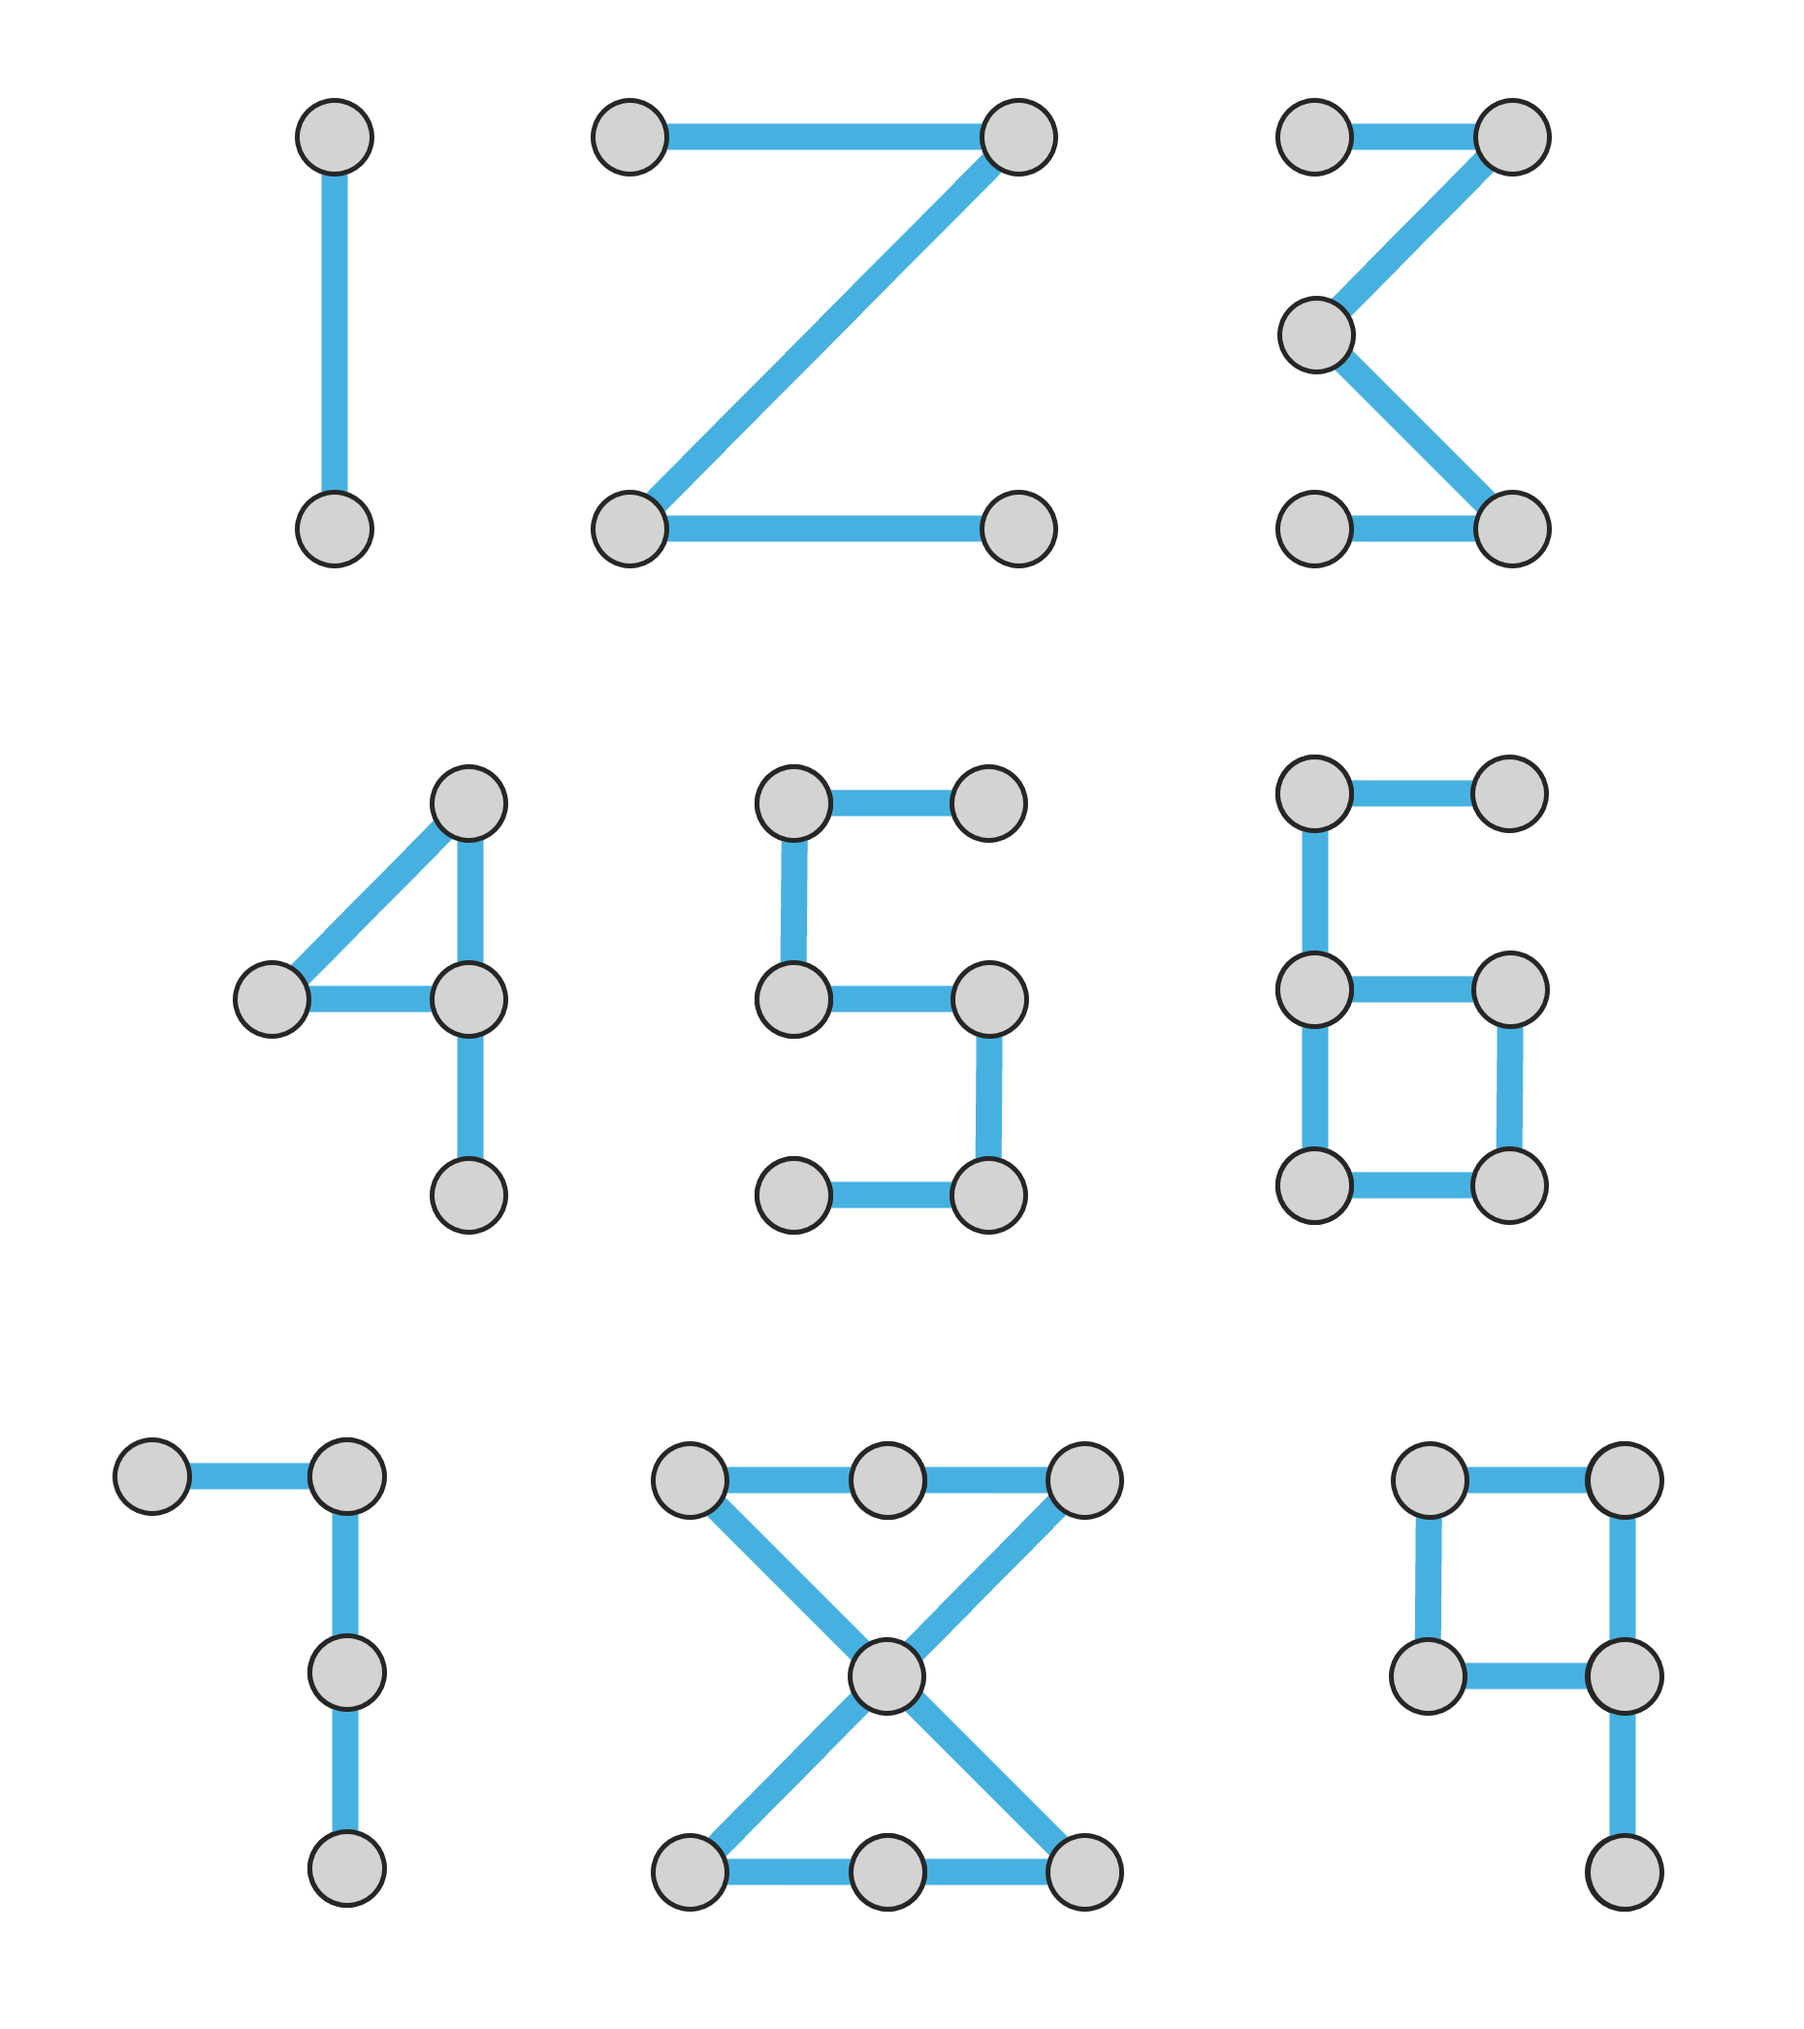
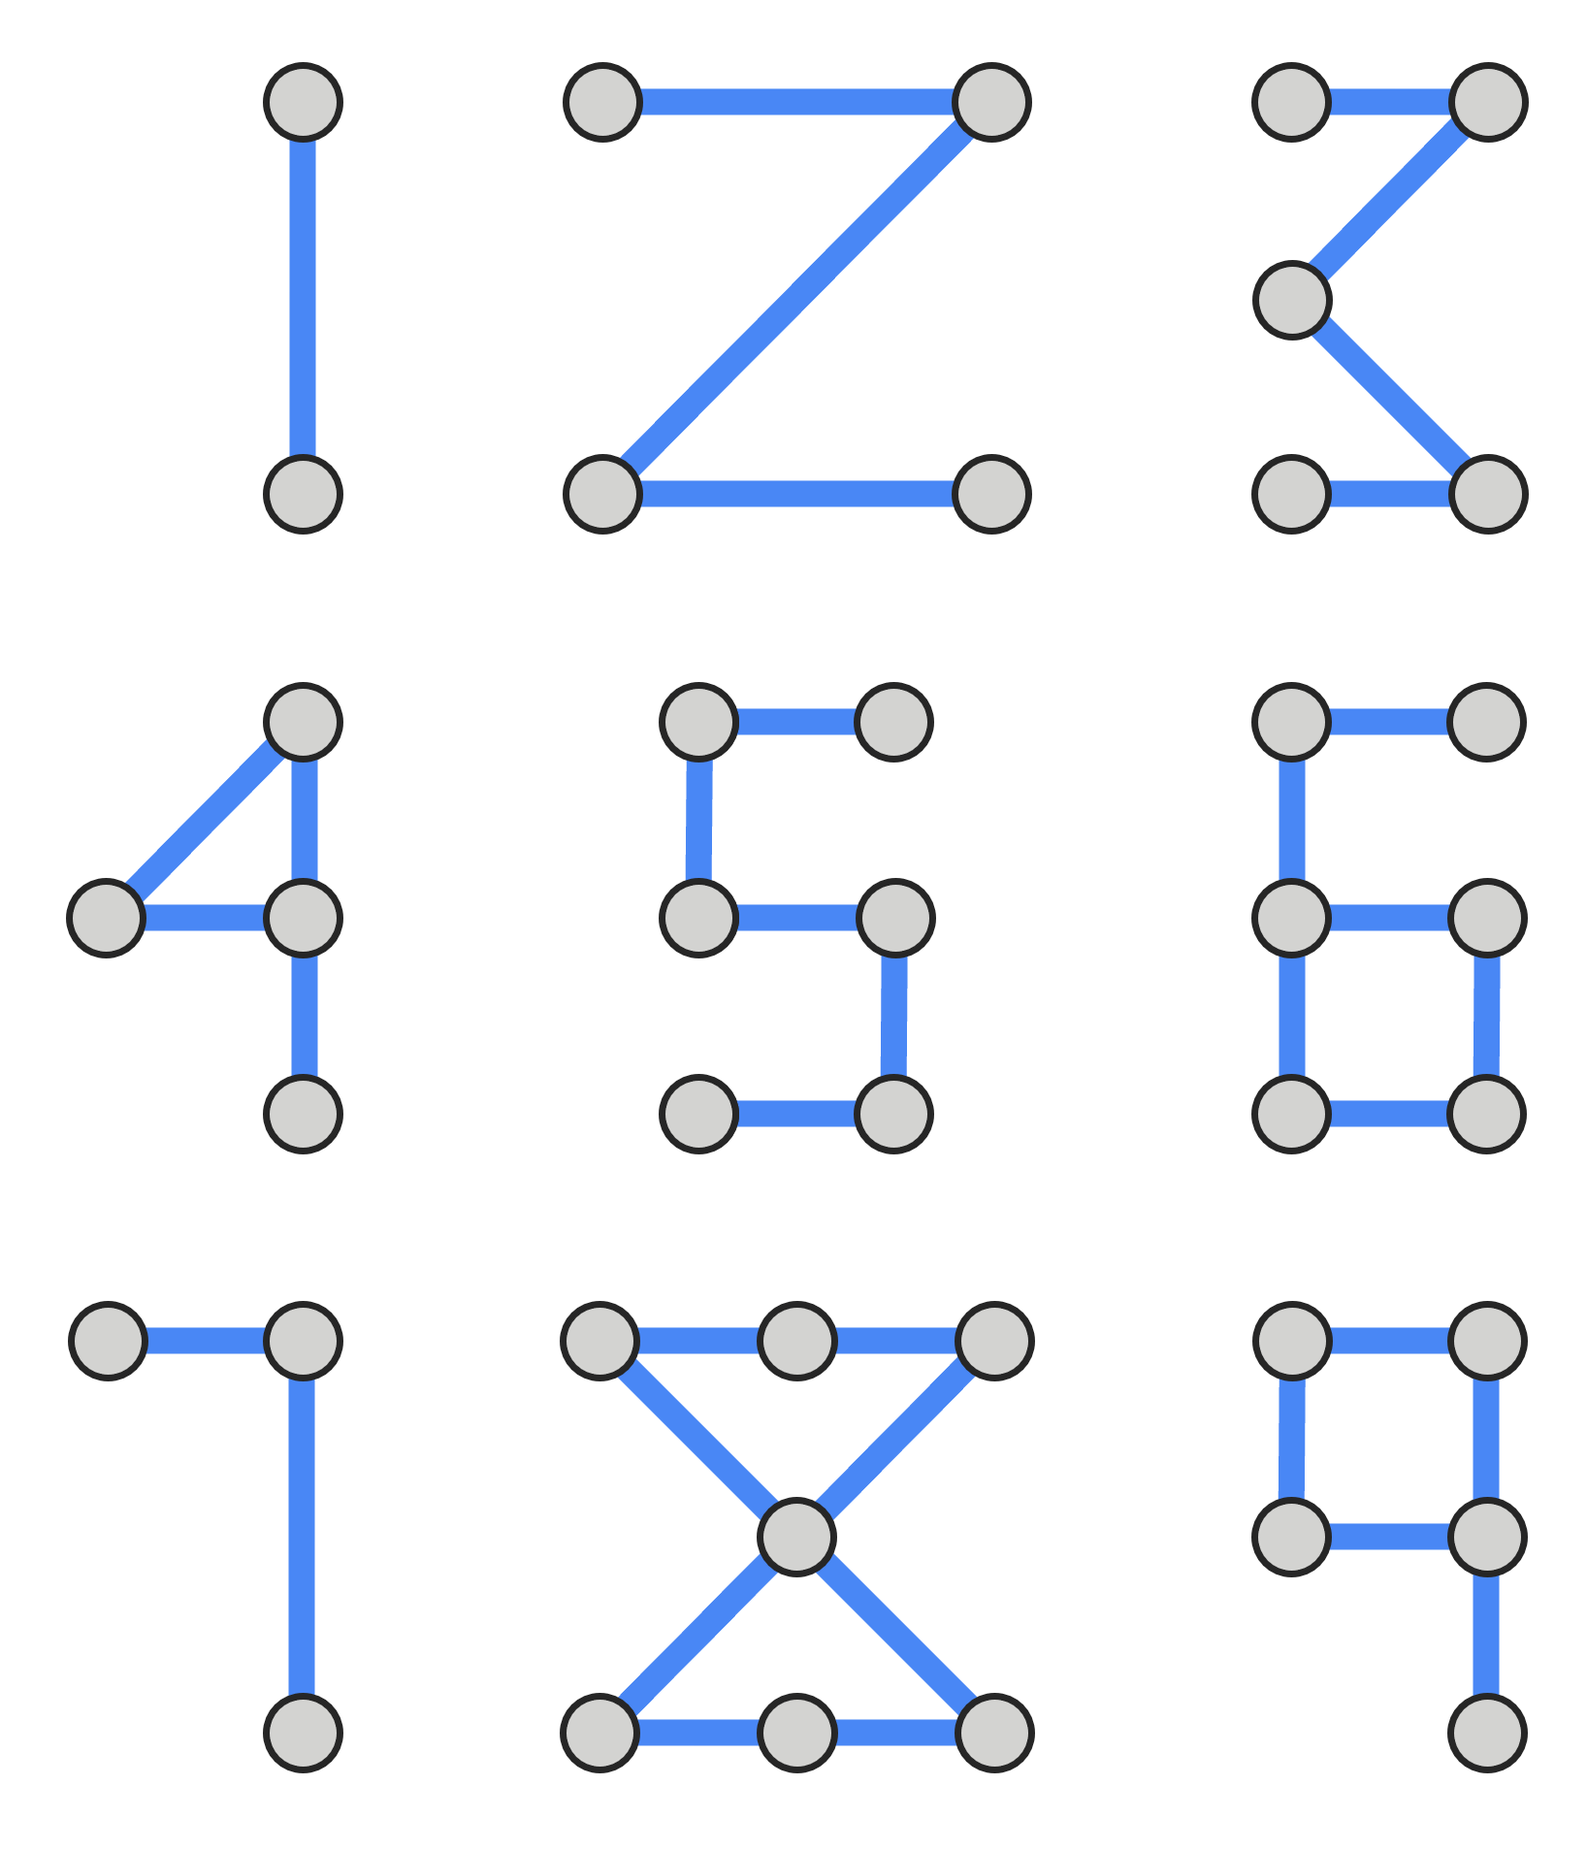
dev 2 mode for videos

diff --git a/index.html b/index.html
@@ -905,39 +905,42 @@
         .dev2-preview-row {
             display: none;
             align-items: flex-end;
+            gap: clamp(8px, 2cqw, 16px);
             width: 100%;
-            height: 80cqw;
-            margin-bottom: clamp(6px, 2cqw, 12px);
+            margin-bottom: clamp(12px, 3cqw, 20px);
             flex-shrink: 0;
         }
         body.dev2 .dev2-preview-row { display: flex; }
 
-        /* 9:16 phone frame — left-aligned to the board */
-        .dev2-phone-frame {
-            /* height = 80cqw, width = height × (9/16) */
-            width: calc(80cqw * 9 / 16);
-            height: 80cqw;
-            border: 2px solid #444;
-            border-radius: clamp(10px, 2.5cqw, 20px);
-            flex-shrink: 0;
-            background: transparent;
-        }
-
-        /* Number guide image — right-aligned to the board */
+        /* Number guide — left side, auto-width, same height as the square */
         .dev2-guide-wrap {
-            flex: 1;
             display: flex;
-            justify-content: flex-end;
+            flex-direction: column;
             align-items: center;
-            overflow: hidden;
-            padding-left: clamp(6px, 1.5cqw, 12px);
+            flex-shrink: 0;
+            gap: clamp(4px, 1cqw, 8px);
+        }
+        .dev2-guide-label {
+            font-family: 'Rajdhani', sans-serif; font-weight: 700;
+            font-size: clamp(10px, 2.5cqw, 13px);
+            letter-spacing: 0.15em; text-transform: uppercase;
+            color: #555; line-height: 1;
         }
         .dev2-guide-img {
-            height: 80cqw;
+            height: 50cqw;
             width: auto;
-            max-width: 100%;
-            object-fit: contain;
             display: block;
+        }
+
+        /* Square box — right side, half the board width */
+        .dev2-phone-frame {
+            width: 50cqw;
+            height: 50cqw;
+            flex-shrink: 0;
+            border: 2px solid #444;
+            border-radius: clamp(8px, 2cqw, 16px);
+            background: transparent;
+            margin-left: auto;
         }
     </style>
 </head>
@@ -1090,12 +1093,13 @@
     <div class="screen" id="screenPlay">
         <div id="puzzleDescription" style="display:none;"></div>
         <div class="board-wrap">
-        <!-- Dev2 preview row: phone frame (left) + number guide (right) -->
+        <!-- Dev2 preview row: number guide (left) + square box (right) -->
         <div class="dev2-preview-row">
-            <div class="dev2-phone-frame"></div>
             <div class="dev2-guide-wrap">
+                <span class="dev2-guide-label">Number Guide</span>
                 <img src="number_guide.png" alt="Number guide" class="dev2-guide-img">
             </div>
+            <div class="dev2-phone-frame"></div>
         </div>
         <!-- Dev2 date navigation bar -->
         <div id="dev2Nav">
